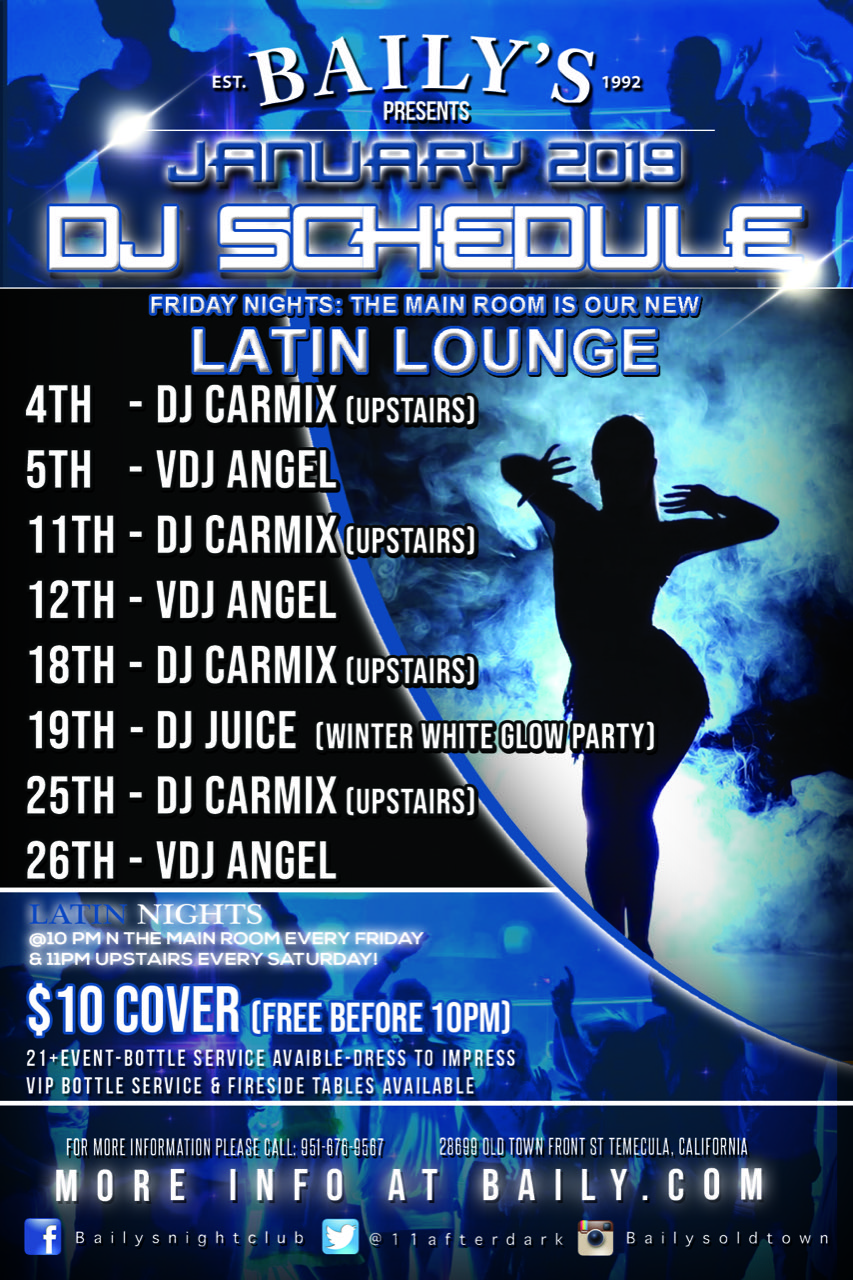
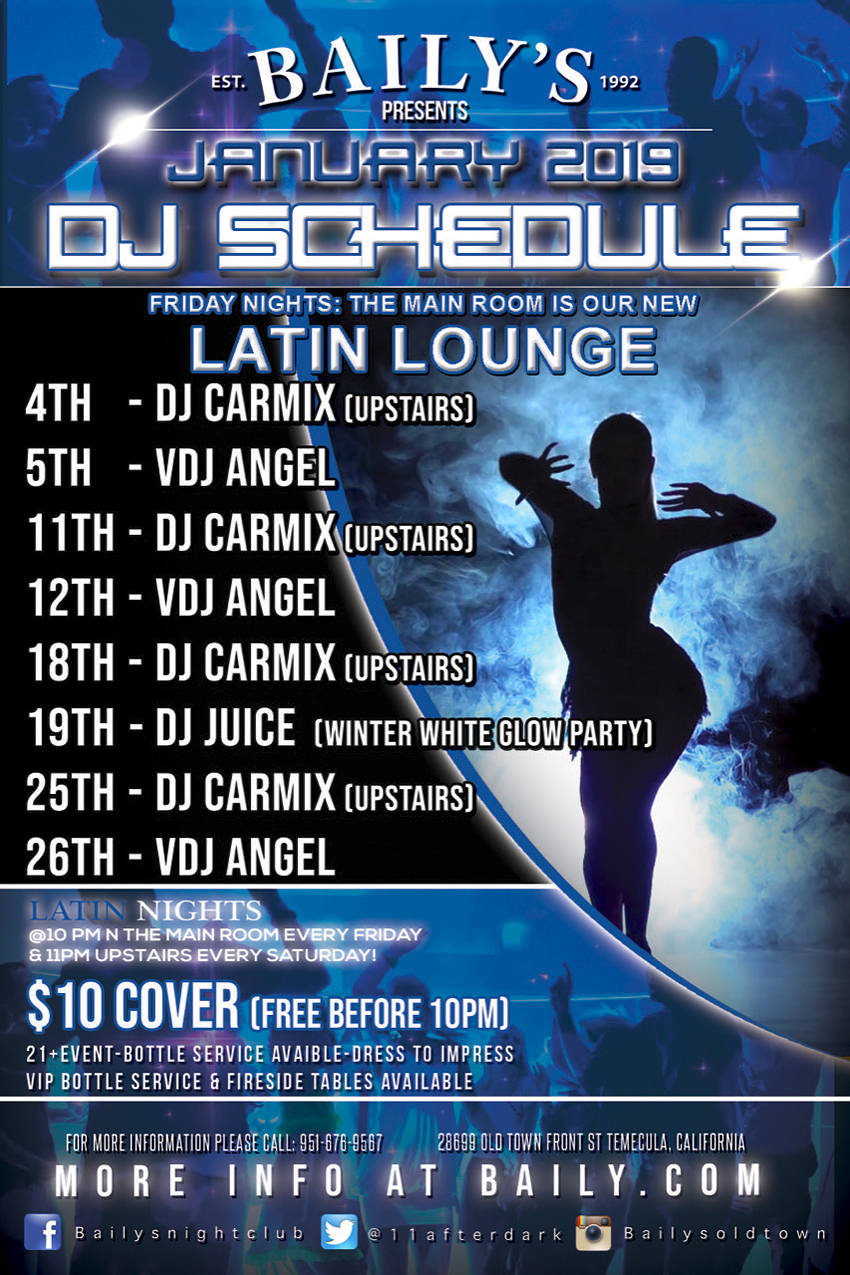
images compressed and downsized

diff --git a/public/js/imageScroll.js b/public/js/imageScroll.js
@@ -13,7 +13,7 @@ const cssDef = () => {
 const imgArrDef = () => {
     return [
         {
-            url: "/assets/clubFlyers/4x6_Brunch_Front_small.jpg",
+            url: "/assets/clubFlyers/4x6_Brunch_Front.jpg",
             link: "https://baily.com/dining",
         },
         {
@@ -25,15 +25,15 @@ const imgArrDef = () => {
             link: "https://baily.com/nightclub",
         },
         {
-            url: "/assets/clubFlyers/4x6_March_Paddys_2019_small.jpg",
+            url: "/assets/clubFlyers/4x6_March_Paddys_2019.jpg",
             link: "https://baily.com/nightclub",
         },
         {
-            url: "/assets/clubFlyers/4x6_March_Mardi_2019_small.jpg",
+            url: "/assets/clubFlyers/4x6_March_Mardi_2019.jpg",
             link: "https://baily.com/nightclub",
         },
         {
-            url: "/assets/clubFlyers/4x6_New_Latin_small.jpg",
+            url: "/assets/clubFlyers/4x6_New_Latin.jpg",
             link: "https://baily.com/nightclub",
         },
     ];
